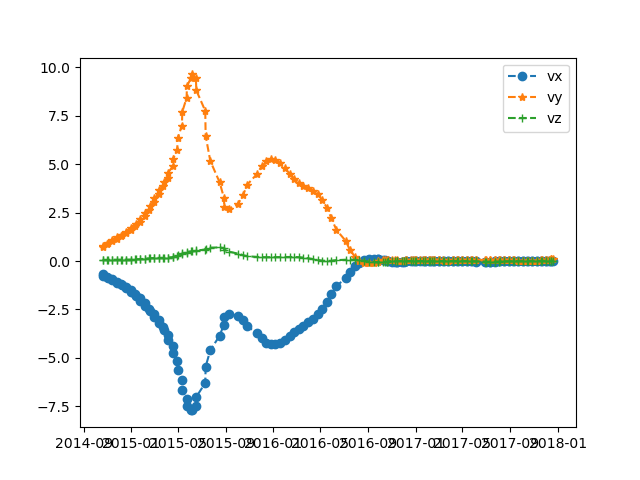
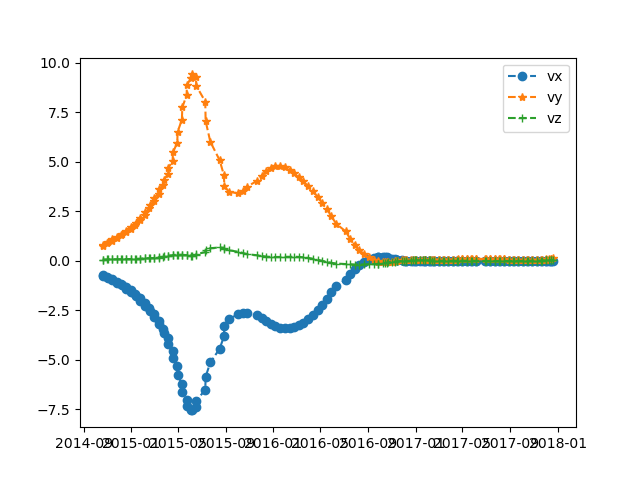
small bug fixing.

diff --git a/ticoi/core.py b/ticoi/core.py
@@ -166,7 +166,6 @@ def inversion_iteration(
 
         :return weight: [np array] Weight for the inversion
         """
-
         r_std = residu / (stats.median_abs_deviation(residu) / 0.6745)
         if (
             Weight is not None
@@ -177,7 +176,7 @@ def inversion_iteration(
             weight = TukeyBiweight((r_std), 4.685)
 
         return weight
-
+    
     if len(results) == 2:
         result_dx, result_dy = results
         weightx = weightf(compute_residual(A, data[:, 0], result_dx), Weight[0])
@@ -187,11 +186,16 @@ def inversion_iteration(
         residu_dx, residu_dy = compute_residual(
             A, data[:, 0:2], [result_dx, result_dy, result_dz], data[:,-2], data[:,-1]
         )
-        # residu_dx, residu_dy = compute_residual_3D(
-        #     A, data[:, 0:2], result_dx, result_dy, result_dz
-        # )
-        weightx = weightf(residu_dx, Weight[0])
-        weighty = weightf(residu_dy, Weight[1])
+        # the weight should be updated for each direction?
+        # TODO: check this part, is it correct for 3D inversion?
+        # the weight and updated results are very strange, the residual becomes very large
+        i_idx = np.where(data[:, -2] == np.unique(data[:, -2])[1])[0][0]
+        weight_los_asc = weightf(residu_dx[:i_idx], Weight[0][:i_idx] if Weight[0] is not None else None)
+        weight_az_asc = weightf(residu_dy[:i_idx], Weight[1][:i_idx] if Weight[1] is not None else None)
+        weight_los_desc = weightf(residu_dx[i_idx:], Weight[0][i_idx:] if Weight[0] is not None else None)
+        weight_az_desc = weightf(residu_dy[i_idx:], Weight[1][i_idx:] if Weight[1] is not None else None)
+        weightx = np.concatenate([weight_los_asc, weight_los_desc])
+        weighty = np.concatenate([weight_az_asc, weight_az_desc])
 
     if A.shape[0] < A.shape[1]:
         if verbose:
@@ -734,8 +738,8 @@ def inversion_core(
                 weight_ix = weights_i[1]
 
             del result_dx, result_dy
-            if not visual and not "Error_propagation" in result_quality:
-                del data_values, data_dates
+            # if not visual and not "Error_propagation" in result_quality:
+            #     del data_values, data_dates
 
         else:  # If not iteration
             results_d_i = results_d
@@ -777,8 +781,12 @@ def inversion_core(
                         Residu = data_values[:, pos] - F @ results_d_i[0]
                 elif pos == 1:
                     if len(results_d_i) == 3:
-                        i_angles, i_idx = np.unique(data[:, -2], return_index=True)
-                        a_angles, a_idx = np.unique(data[:, -1], return_index=True)
+                        i_angles, i_idx = np.unique(i_angles, return_index=True)
+                        if i_idx[0] > i_idx[1]:
+                            i_angles, i_idx = i_angles[::-1], i_idx[::-1]
+                        a_angles, a_idx = np.unique(a_angles, return_index=True)
+                        if a_idx[0] > a_idx[1]:
+                            a_angles, a_idx = a_angles[::-1], a_idx[::-1]
                         dy_at = (results_d_i[0] * np.sin(a_angles[0]) + 
                                 results_d_i[1] * np.cos(a_angles[0]))
                         dy_dt = (results_d_i[0] * np.sin(a_angles[1]) + 
@@ -1275,198 +1283,6 @@ def process(
         # TODO: to check that!
         if delete_outliers == "median_angle":
             conf = True  # Set conf to True, because the errors have been replaced by confidence indicators based on the cos of the angle between the vector of each observation and the median vector
-        result = inversion_core(
-            data[0],
-            i,
-            j,
-            dates_range=data[2],
-            solver=solver,
-            coef=coef,
-            apriori_weight=apriori_weight,
-            apriori_weight_in_second_iteration=apriori_weight_in_second_iteration,
-            unit=unit,
-            conf=conf,
-            regu=regu,
-            mean=data[1],
-            iteration=iteration,
-            threshold_it=threshold_it,
-            detect_temporal_decorrelation=detect_temporal_decorrelation,
-            linear_operator=linear_operator,
-            result_quality=result_quality,
-            nb_max_iteration=nb_max_iteration,
-            visual=visual,
-            verbose=verbose,
-        )
-
-        if "invert" in returned:
-            if result[1] is not None:
-                returned_list.append(result[1])
-            else:
-                if result_quality is not None and "X_contribution" in result_quality:
-                    variables = ["result_dx", "result_dy", "xcount_x", "xcount_y"]
-                else:
-                    variables = ["result_dx", "result_dy"]
-                returned_list.append(
-                    pd.DataFrame(
-                        {"date1": [], "date2": [], **{col: [] for col in variables}}
-                    )
-                )
-
-        if "interp" in returned:
-            # Interpolation
-            if result[1] is not None:  # If inversion have been performed
-                dataf_list = interpolation_core(
-                    result[1],
-                    interval_output,
-                    option_interpol=option_interpol,
-                    first_date_interpol=first_date_interpol,
-                    last_date_interpol=last_date_interpol,
-                    unit=unit,
-                    redundancy=redundancy,
-                    result_quality=result_quality,
-                )
-
-                if result_quality is not None and "Norm_residual" in result_quality:
-                    dataf_list["NormR"] = result[1][
-                        "NormR"
-                    ]  # Store norm of the residual from the inversion
-                returned_list.append(dataf_list)
-            else:
-                if result_quality is not None and "Norm_residual" in result_quality:
-                    returned_list.append(
-                        pd.DataFrame(
-                            {
-                                "date1": [],
-                                "date2": [],
-                                "vx": [],
-                                "vy": [],
-                                "xcount_x": [],
-                                "xcount_y": [],
-                                "NormR": [],
-                            }
-                        )
-                    )
-                else:
-                    returned_list.append(
-                        pd.DataFrame(
-                            {
-                                "date1": [],
-                                "date2": [],
-                                "vx": [],
-                                "vy": [],
-                                "xcount_x": [],
-                                "xcount_y": [],
-                            }
-                        )
-                    )
-
-    if len(returned_list) == 1:
-        return returned_list[0]
-    return returned_list if len(returned_list) > 0 else None
-
-
-def process_3d(
-    cube_at: cube_data_class,
-    cube_dt: cube_data_class,
-    i: float | int,
-    j: float | int,
-    path_save,
-    solver: str = "LSMR",
-    regu: int | str = 1,
-    coef: int = 100,
-    flag: xr.Dataset | None = None,
-    apriori_weight: bool = False,
-    apriori_weight_in_second_iteration: bool = False,
-    returned: list | str = "interp",
-    obs_filt: xr.Dataset | None = None,
-    interpolation_load_pixel: str = "nearest",
-    iteration: bool = True,
-    interval_output: int = 1,
-    first_date_interpol: np.datetime64 | None = None,
-    last_date_interpol: np.datetime64 | None = None,
-    proj="EPSG:4326",
-    threshold_it: float = 0.1,
-    conf: bool = True,
-    option_interpol: str = "spline",
-    redundancy: int | None = None,
-    detect_temporal_decorrelation: bool = True,
-    unit: int = 365,
-    result_quality: list | str | None = None,
-    nb_max_iteration: int = 10,
-    delete_outliers: int | str | None = None,
-    linear_operator: bool = False,
-    visual: bool = False,
-    verbose: bool = False,
-):
-    """
-    :params i, j: [float | int] --- Coordinates of the point in pixel
-    :param solver: [str] [default is 'LSMR'] --- Solver of the inversion: 'LSMR', 'LSMR_ini', 'LS', 'LSQR'
-    :param regu: [int | str] [default is 1] --- Type of regularization
-    :param coef: [int] [default is 100] --- Coef of Tikhonov regularisation
-    :param flag: [xr dataset | None] [default is None] --- If not None, the values of the coefficient used for stable areas, surge glacier and non surge glacier
-    :param apriori_weight: [bool] [default is False] --- If True use of aprori weight
-    :param returned: [list | str] [default is 'interp'] --- What results must be returned ('raw', 'invert' and/or 'interp')
-    :param obs_filt: [xr dataset | None] [default is None] --- Filtered dataset (e.g. rolling mean)
-    :param interpolation_load_pixel: [str] [default is 'nearest'] --- Type of interpolation to load the previous pixel in the temporal interpolation ('nearest' or 'linear')
-    :param iteration: [bool] [default is True] --- If True, use of iterations
-    :param interval_output: [int] [default is 1] --- Temporal sampling of the leap frog time series
-    :param first_date_interpol: [np.datetime64 | None] --- First date at which the time series are interpolated
-    :param last_date_interpol: [np.datetime64 | None] --- Last date at which the time series are interpolated
-    :param proj: [str] [default is 'EPSG:4326'] --- Projection of the cube
-    :param threshold_it: [float] [default is 0.1] --- Threshold to test the stability of the results between each iteration, use to stop the process
-    :param conf: [bool] [default is False] --- If True means that the error corresponds to confidence intervals between 0 and 1, otherwise it corresponds to errors in m/y or m/d
-    :param option_interpol: [str] [default is 'spline'] --- Type of interpolation, it can be 'spline', 'spline_smooth' or 'nearest'
-    :param redundancy: [int | None] [default is None] --- If None there is no redundancy between two velocity in the interpolated time-series, else the overlap between two velocities is redundancy days
-    :param detect_temporal_decorrelation: [bool] [default is True] --- If True the first inversion is solved using only velocity observations with small temporal baselines, to detect temporal decorelation
-    :param unit: [int] [default is 365] --- 1 for m/d, 365 for m/y
-    :param result_quality: [list | str | None] [default is None] --- List which can contain 'Norm_residual' to determine the L2 norm of the residuals from the last inversion, 'X_contribution' to determine the number of Y observations which have contributed to estimate each value in X (it corresponds to A.dot(weight))
-    :param nb_max_iteration: [int] [default is 10] --- Maximum number of iterations
-    :param delete_outliers: [int | str | None] [default is None] --- Delete data with a poor quality indicator (if int), or with aberrant direction ('vvc_angle')
-    :param linear_operator: [bool] [default is False] --- If linear operator, the inversion is performed using a linear operator (https://docs.scipy.org/doc/scipy/reference/generated/scipy.sparse.linalg.LinearOperator.html)
-    :param visual: [bool] [default is False] --- Keep the weights for future plots
-    :param verbose: [bool] [default is False] --- Print information along the way
-
-    :return dataf_list: [pd dataframe] Result of the temporal inversion + interpolation at point (i, j) if inversion was successful, an empty dataframe if not
-    """
-
-    returned_list = []
-
-    # Loading data at pixel location
-    data_at = cube_at.load_pixel(
-        i,
-        j,
-        proj=proj,
-        interp=interpolation_load_pixel,
-        solver=solver,
-        coef=coef,
-        regu=regu,
-        rolling_mean=obs_filt,
-        flag=flag,
-    )
-    data_dt = cube_dt.load_pixel(
-        i,
-        j,
-        proj=proj,
-        interp=interpolation_load_pixel,
-        solver=solver,
-        coef=coef,
-        regu=regu,
-        rolling_mean=obs_filt,
-        flag=flag,
-    )
-
-    if "raw" in returned:  # return the raw data
-        returned_list.append(data)
-
-    if "invert" in returned or "interp" in returned:
-        if flag is not None:  # set regu and coef for every flags
-            regu, coef = data[3], data[4]
-
-        # Inversion
-        # TODO: to check that!
-        if delete_outliers == "median_angle":
-            conf = True  # Set conf to True, because the errors have been replaced by confidence indicators based on the cos of the angle between the vector of each observation and the median vector
-
         result = inversion_core(
             data[0],
             i,

diff --git a/examples/cube_ticoi_3d_inversion.py b/examples/cube_ticoi_3d_inversion.py
@@ -120,7 +120,7 @@ inversion_kwargs = {
     "solver": solver,  # Solver for the inversion
     "unit": 365,  # 365 if the unit is m/y, 1 if the unit is m/d
     "interpolation_load_pixel": "nearest",  # Interpolation method used to load the pixel when it is not in the dataset
-    "iteration": True,  # Allow the inversion process to make several iterations
+    "iteration": False,  # Allow the inversion process to make several iterations
     "nb_max_iteration": 10,  # Maximum number of iteration during the inversion process
     "threshold_it": 0.1,
     # Threshold to test the stability of the results between each iteration, used to stop the process
